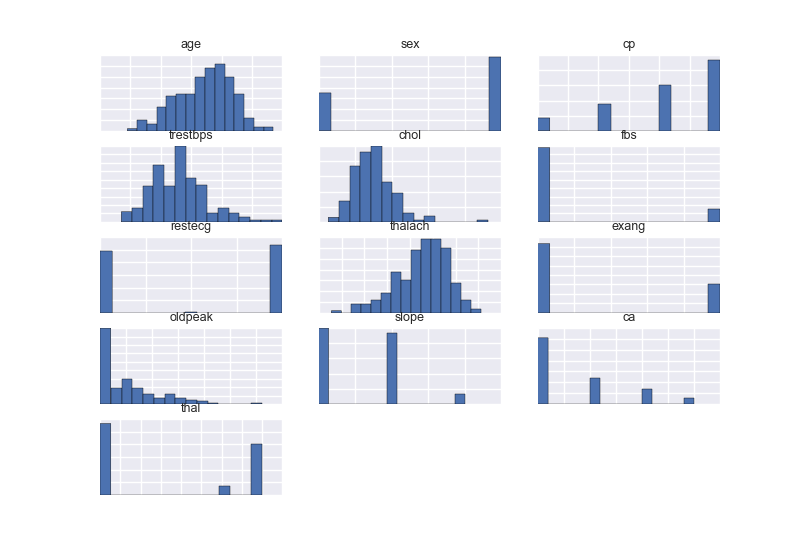
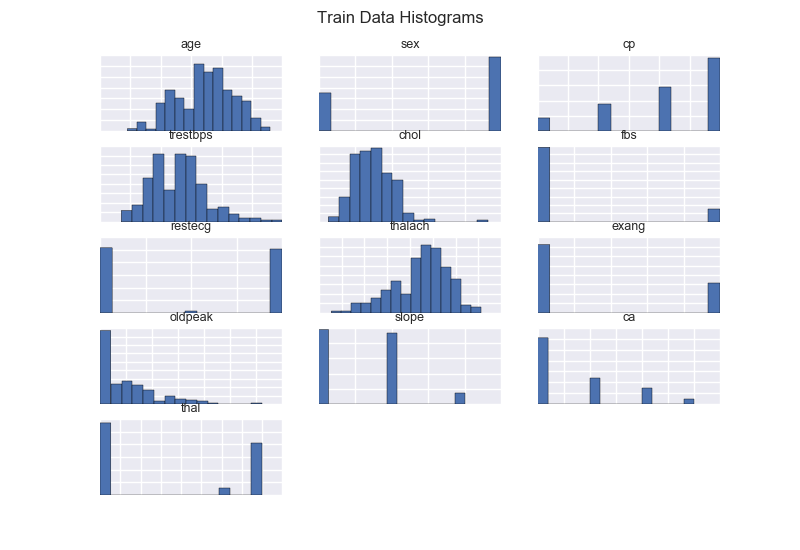
clean up scatter matrix

diff --git a/coronary_predict.py b/coronary_predict.py
@@ -33,12 +33,12 @@ def read_data(name):
     col_names = ['age', 'sex', 'cp', 'trestbps', 'chol', 'fbs', 'restecg', 'thalach', \
         'exang', 'oldpeak', 'slope', 'ca', 'thal', 'risk']
     df = pd.read_csv(f, names = col_names)
-    # check for ? missing values - six of 'em
-    # check for just ? or any non-numeric character
+    # check for ? missing values - six in mostly different columns
+    # no other non-numeric characters
     for c in col_names:
         df[c] = df[c].apply(lambda s: np.nan if s=='?' else float(s))
+        # columns w/ ? are str not int, convert to float
     df = df.dropna()
-    # maybe columns w/ ? are str not int, need to convert
     df['Y'] = df['risk'].apply(lambda x: 1 if x>0 else 0)
     print("raw df shape %s head\n%s" % (df.shape, df[:3]))
 #    print("raw df stats\n%s" % df.describe())
@@ -88,7 +88,7 @@ def test_incoming(test_X, train_X):
     print("    --------  ------   ----")
     for var in vlist:
         pval = sst.ttest_ind(test_X[var], train_X[var]).pvalue
-        print("    %-8s  %.4f   %s" % (var, pval, pval>0.05))
+        print("    %-8s  %.3f    %s" % (var, pval, pval>0.05))
 #       assert(pval > 0.05)  # in production, assert each column passes
 # if only one or few values at a time, test where they are in train distribution
 # is this a good idea?
@@ -96,12 +96,15 @@ def test_incoming(test_X, train_X):
 def plot_scatter_matrix(df, plotdir):
     "Plot scatter matrix."
     plt.clf()
-    pd_scatter_matrix(df)
+    pd_scatter_matrix(df, figsize=(10,10))
+    plt.suptitle("Scatter Matrix", fontsize=14)
     plt.savefig(plotdir + 'scatter_matrix.png')
 
 def plot_hists(df, plotdir, label='x', ncols=3):
     "Plot histograms of data columns in one plot."
     plt.clf()
+    f = plt.figure(1)
+    f.suptitle(label + " Data Histograms")
     vlist = list(df.columns)
     nrows = len(vlist) // ncols
     if len(vlist) % ncols > 0:
@@ -111,7 +114,7 @@ def plot_hists(df, plotdir, label='x', ncols=3):
         plt.hist(df[var].values, bins=15)
         plt.title(var, fontsize=9)
         plt.tick_params(labelbottom='off', labelleft='off')
-    plt.savefig(plotdir + 'hist_coronary_' + label + '.png')
+    plt.savefig(plotdir + 'hist_coronary_' + label.lower() + '.png')
 
 def confusion_report(test_y, new_y):
     "Create classification report and confusion matrix."
@@ -129,15 +132,15 @@ def fit_predict(clf, train_X, train_y, test_X, test_y, label='x'):
 #    confusion_report(test_y, new_y)
     return pred_score
 
-def cross_validate(clf, train_X, train_y, print_out=False):
+def cross_validate(clf, train_X, train_y, cv=5, print_out=False):
     "Cross-validate fit scores.  Dataset is too small to be very reliable though."
-    scores = cross_val_score(clf, train_X, train_y, cv=8)
+    scores = cross_val_score(clf, train_X, train_y, cv=cv)
     score = scores.mean()
     score_std = scores.std()
     if print_out:
         print("  CV scores mean %.4f +- %.4f" % (score, 2.0 * score_std))
         print("  CV raw scores", scores)
-    return score
+    return score, scores
 
 def main():
     train_X, test_X, train_y, test_y = load_data('cleveland', print_out=False)
@@ -145,8 +148,8 @@ def main():
     
     plotdir = make_plotdir()
 #    plot_scatter_matrix(train_X, plotdir)  # takes a while, not that useful 
-    plot_hists(train_X, plotdir, label='train')
-    plot_hists(test_X, plotdir, label='test')
+    plot_hists(train_X, plotdir, label='Train')
+    plot_hists(test_X, plotdir, label='Test')
     
     train_X, test_X = scale_data(train_X, test_X)
     
@@ -156,7 +159,7 @@ def main():
 
     clf = LinearSVC()   # score somewhat randomized if not scaled
     fit_predict(clf, train_X, train_y, test_X, test_y, label='svc')
-    cross_validate(clf, train_X, train_y['Y'], print_out=True)
+    cross_validate(clf, train_X, train_y['Y'], cv=8, print_out=True)
     
     # repeated runs gives cv scores 0.7 to 0.9, 2*std 0.1 to 0.2
     # almost the same for lr, svc; depends on random train_test_split
